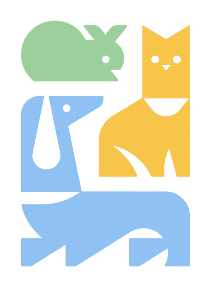
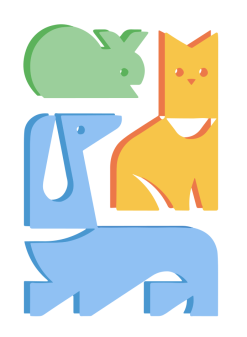
Change image login

diff --git a/src/containers/App/Router/index.tsx b/src/containers/App/Router/index.tsx
@@ -1,7 +1,7 @@
 import { createNativeStackNavigator } from '@react-navigation/native-stack'
 import { StatusBar } from 'react-native'
 import { PRIVATE_BASE } from 'src/constant/Routes'
-import { HomeRouter } from 'src/containers/Home/Router'
+import { Login } from 'src/containers/Login'
 
 export const Router: React.FC = () => {
   const Stack = createNativeStackNavigator()
@@ -12,7 +12,7 @@ export const Router: React.FC = () => {
       <StatusBar barStyle="dark-content" />
       <Stack.Navigator initialRouteName={PRIVATE_BASE}>
         {/* <Stack.Screen name={ROUTES.AUTH.LOGIN} component={Login} options={{ headerShown: true }} /> */}
-        <Stack.Screen name={PRIVATE_BASE} component={HomeRouter} options={{ headerShown: false }} />
+        <Stack.Screen name={PRIVATE_BASE} component={Login} options={{ headerShown: false }} />
       </Stack.Navigator>
     </>
   )

diff --git a/src/containers/Login/index.tsx b/src/containers/Login/index.tsx
@@ -29,11 +29,10 @@ export const Login = () => {
         <CardStyle>
           <Spacing size="32" />
           <Title1 textAlign="center">Bienvenue !</Title1>
-          <Spacing size="24" />
           <View style={{ alignItems: 'center' }}>
             <Image source={require('/assets/images/animal.png')} />
           </View>
-          <Spacing size="32" />
+          <Spacing size="16" />
           <Formik
             initialValues={initialValues}
             validationSchema={validationAnimalSituation}

diff --git a/src/containers/Home/Profile/index.tsx b/src/containers/Home/Profile/index.tsx
@@ -38,7 +38,6 @@ export const Profile = () => {
         <Container>
           <UserHeader>
             <ContainerImage>
-              <Spacing size="8" />
               <ImageProfile picture={userData.picture} />
               <Body3>{userData.email}</Body3>
             </ContainerImage>
